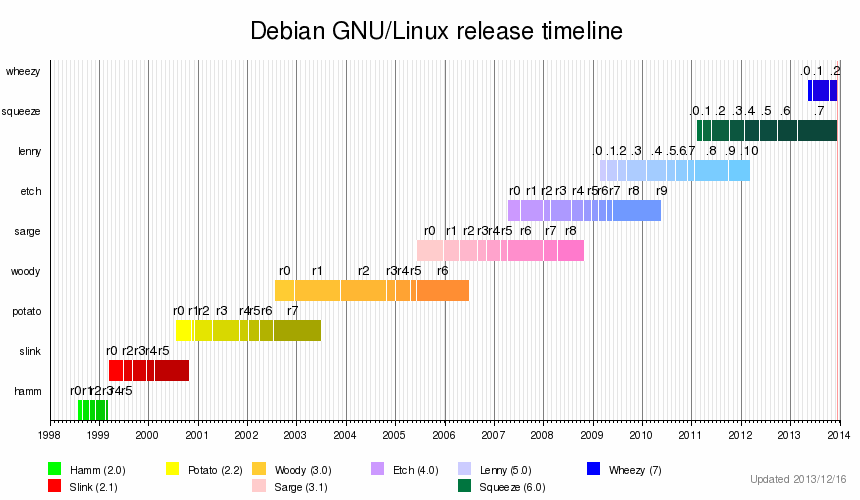
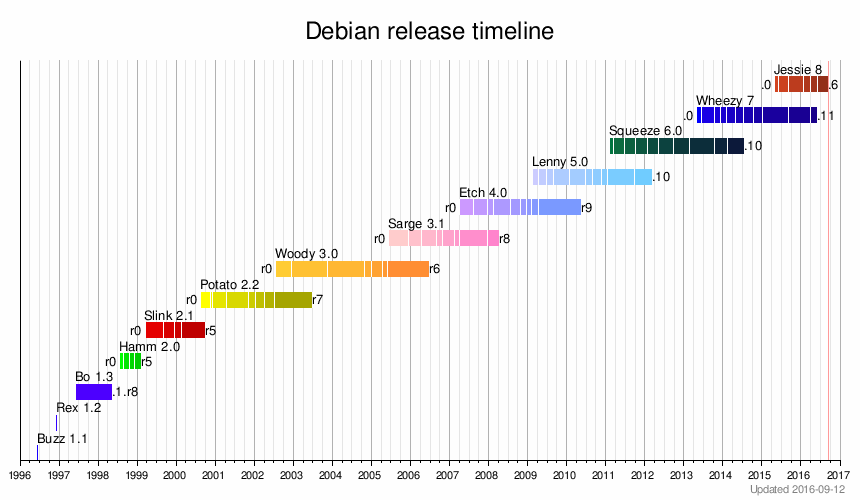
Timeline updated

diff --git a/index.html b/index.html
@@ -73,7 +73,7 @@ if( window.location.search.match( /print-pdf/gi ) ) {
             <p>Unstable (sid)</p>
           </section>
           <section>
-            <h2>Siedem wydań (do tej pory)</h2>
+            <h2>Osiem wydań (do tej pory)</h2>
             <img src="timeline.png" >
           </section>
             <section>
